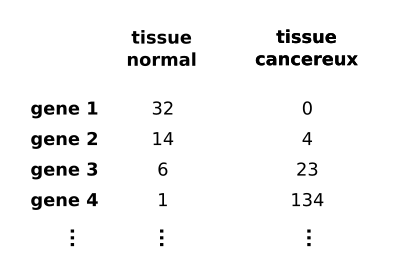
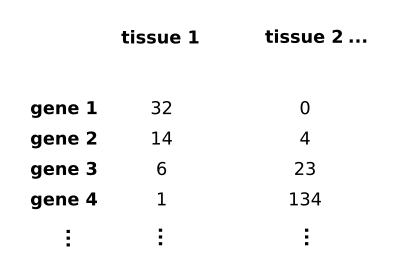
update pic

diff --git a/content/post27.md b/content/post27.md
@@ -22,7 +22,7 @@ Pour plus de détails sur l'analyse bio-informatique,  je vous invite à jeter u
    
 <div class="figure">
     <img src="../images/post27/expression-matrix.png" /> 
-    <div class="legend">Exemple d'une matrice d'expression comparant deux tissues. L'expression des gènes dans le tissue normal est différent de celui du tissue cancéreux</div>
+    <div class="legend">Exemple d'une matrice d'expression comparant deux tissues. L'expression des gènes dans le tissue 1 est différent de celui du tissue 2</div>
 </div>
 
 
